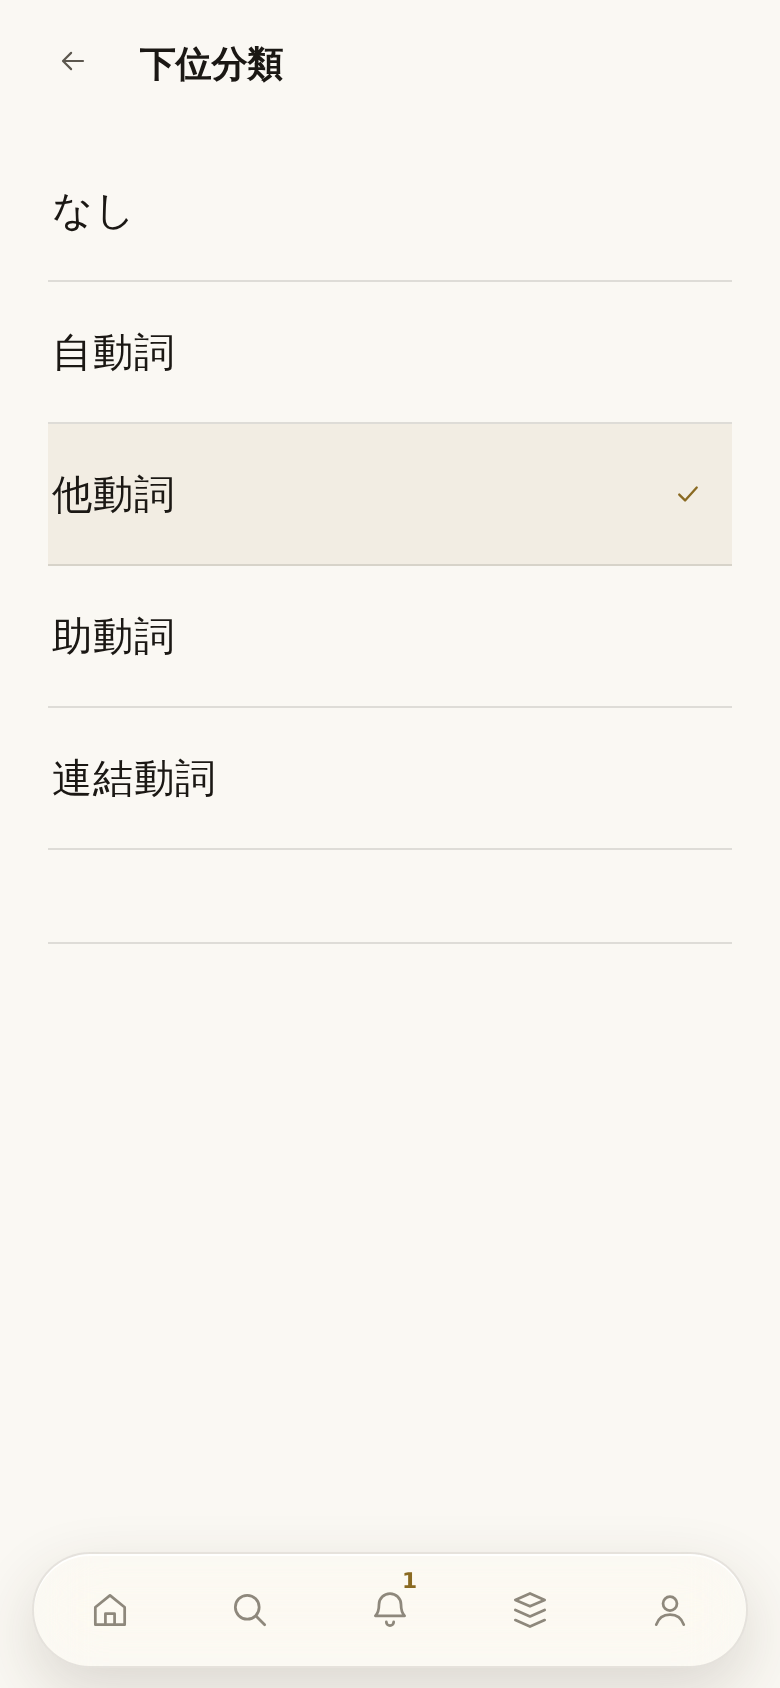
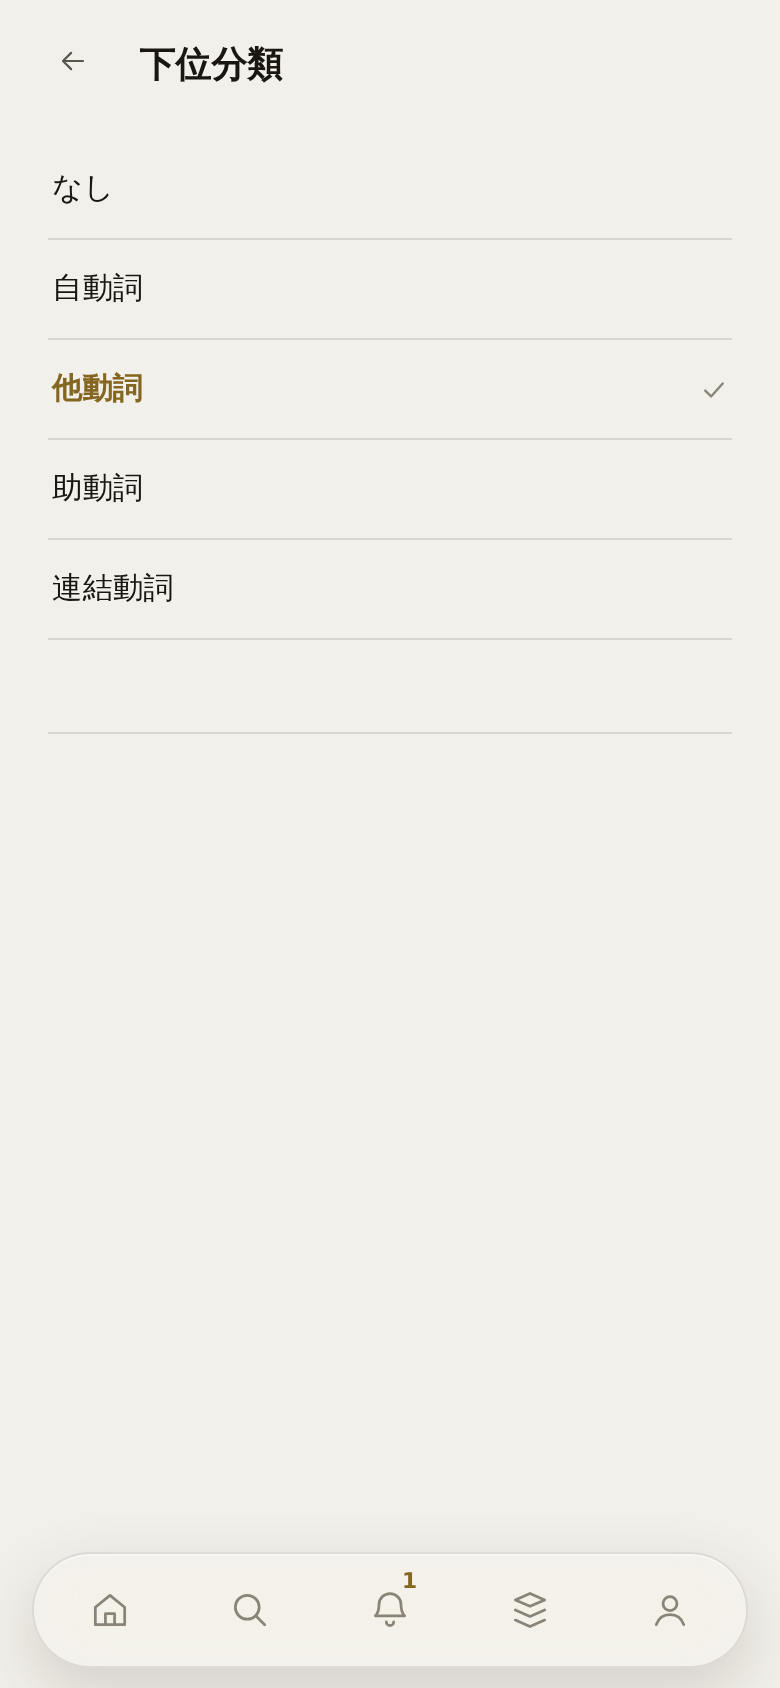
wordsheet: 品詞・語域・下位分類の行を行全体で押せるようにする
Claude-Session: https://claude.ai/code/session_01DJidFiES1mqEDNHwBJq7Mi

diff --git a/www/wordsheet.js b/www/wordsheet.js
@@ -1065,15 +1065,21 @@ function wdRegHTML(){
    -- a part of speech and a register are stored as codes and the label is
    whatever the interface language calls them today. */
 function wdOneHTML(label, on, doName, val){
-  return '<div class="entry one'+(on?' on':'')+'">'+
-    '<button class="ebody"' + DO(doName, [val]) + '>'+
-    /* `hwl` and not `hw`. A headword is a word of the person's LANGUAGE and
-       wears the letters they drew; what is on this row is the app's own word
-       for a part of speech or a register. Wearing the same class meant the
-       list of parts of speech came out in a script nobody can read.
-       「自作文字になるのは自分が打った文字だけにしてくれない？」 */
-    '<div class="hwrow"><span class="hwl">'+esc(label)+'</span></div>'+
-    '</button><span class="ltck" style="margin-left:auto">'+(on? ICON_TICK : '')+'</span></div>';
+  /* THE ROW IS THE BUTTON. It used to be a row holding a button the size of
+     its label -- 44px of 「名詞」 on a row 342 wide -- so a thumb, which lands
+     in the middle of a row, hit nothing at all and the part of speech could
+     not be changed. 「勝手に名詞になる。他のに変更しようとしても変更できない、タップできない」
+     OWNER 2026-09-06, on a real phone.
+
+     Choosing one of a short list and ticking it is www/words.js § wFilRow(),
+     which is a `.set` row that IS a button, and this is that shape rather
+     than a second one beside it. `.sl` is the app's own text: what is on this
+     row is the app's word for a part of speech or a register, never the
+     letters somebody drew.
+     「自作文字になるのは自分が打った文字だけにしてくれない？」 */
+  return '<button class="set"' + DO(doName, [val]) + '>'+
+    '<span class="sl'+(on?' on':'')+'">'+esc(label)+'</span>'+
+    (on? '<span class="sv">'+ICON_TICK+'</span>' : '')+'</button>';
 }
 function vPos(){
   if(!wEdit) return viewGone();

diff --git a/www/index.html b/www/index.html
@@ -1737,9 +1737,6 @@ html[lang="ja"] .sec, html[lang="zh"] .sec, html[lang="ko"] .sec{letter-spacing:
 .rowq .qo{width:19px;height:19px;border-radius:50%;border:1px solid var(--goldln);
   display:flex;align-items:center;justify-content:center;color:var(--txm);font-size:.68rem}
 .rowq:active{opacity:.55}
-/* The label does not stretch: the mark belongs next to the word it is about,
-   not at the far side of the row. */
-.entry.one .ebody{flex:0 0 auto;min-width:44px}
 /* A word says itself, on its own row -- 44 down as well as across, because a
    row is as tall as its text and its text is two lines of small type. */
 .esay{flex:0 0 44px;width:44px;min-height:44px;background:none;border:0;color:var(--txm);
